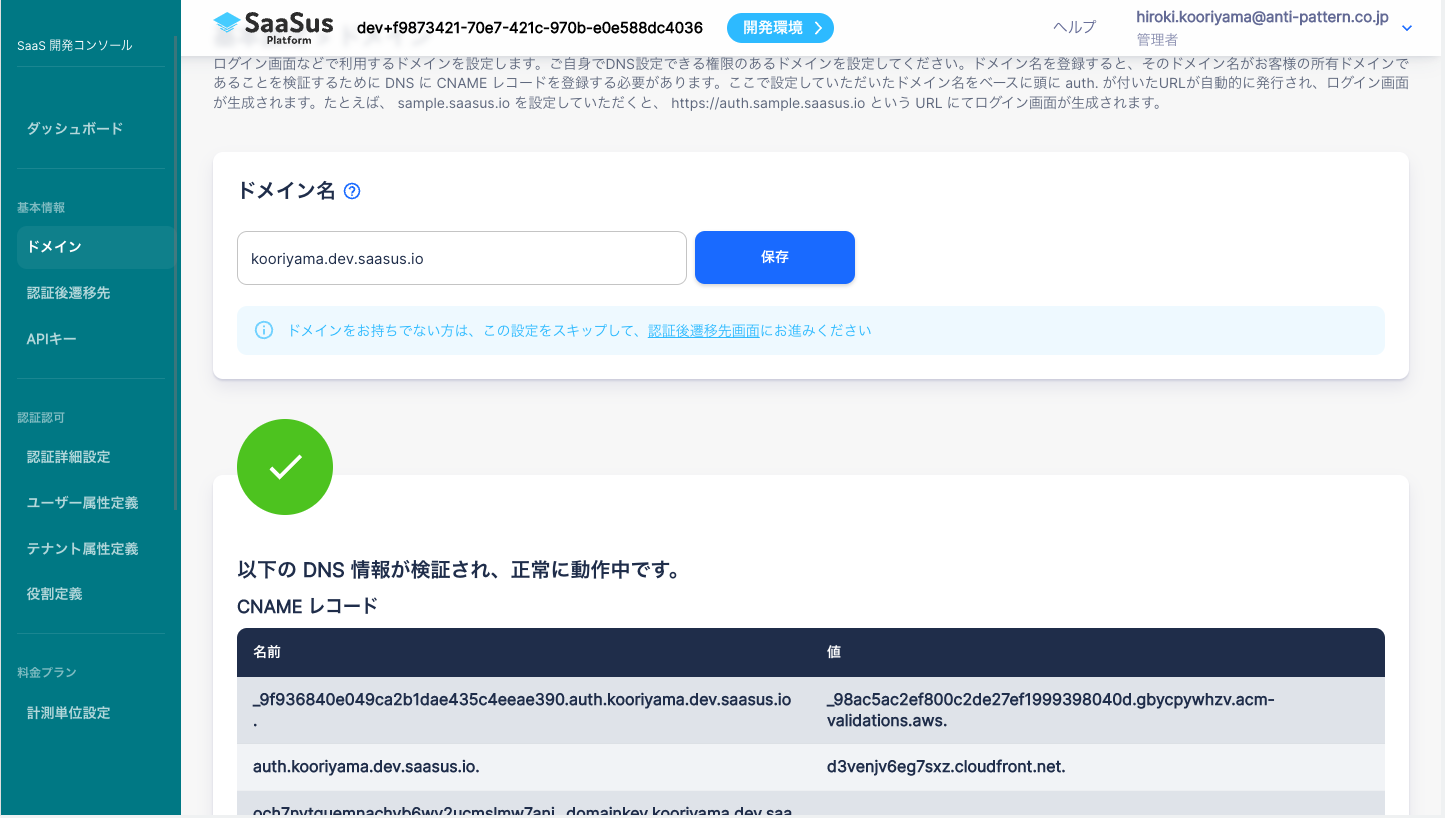
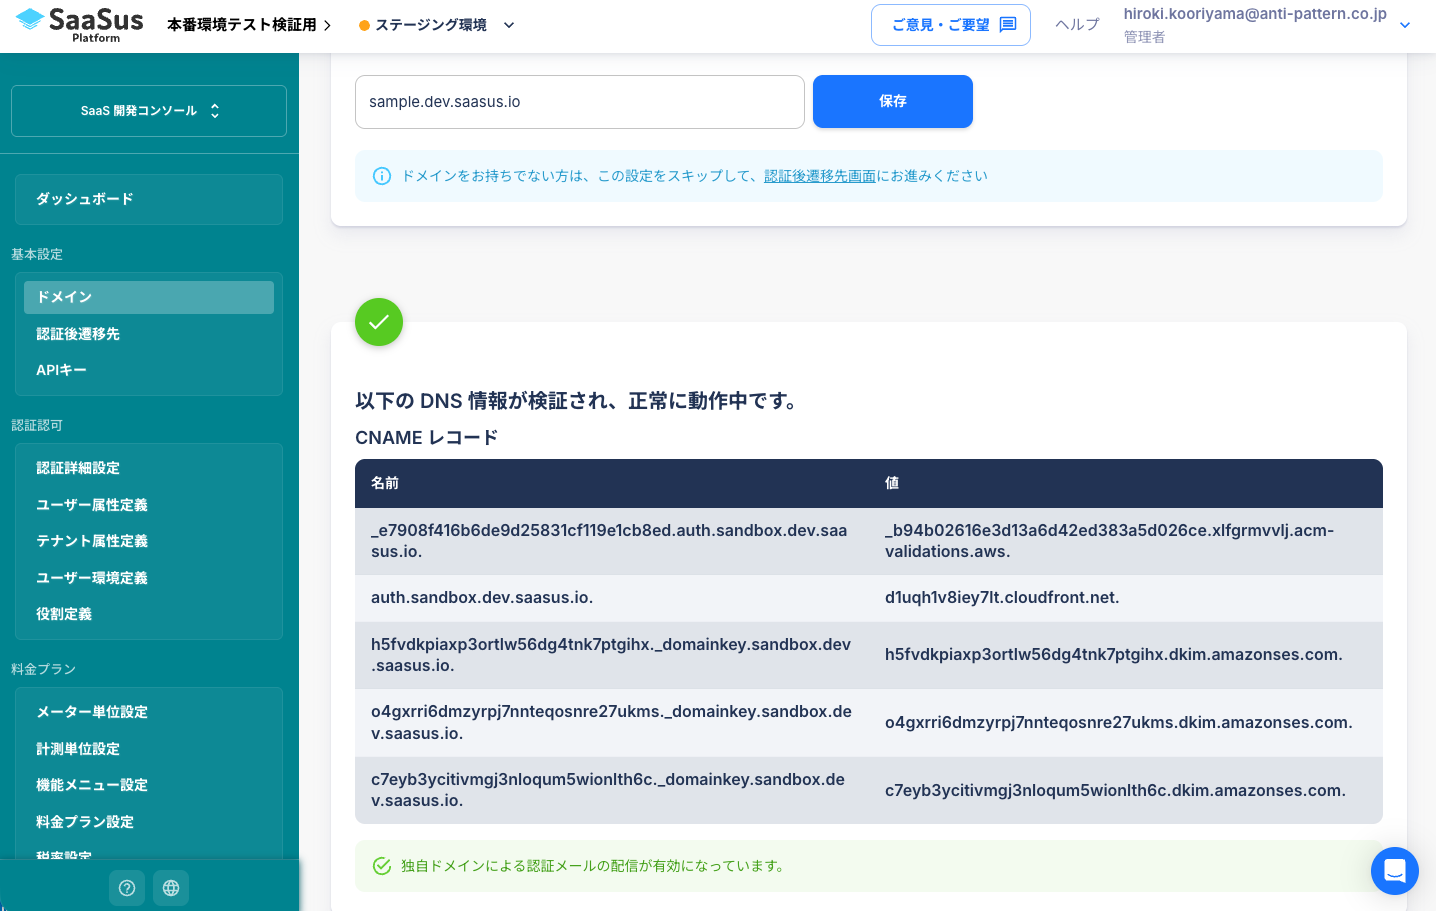
ドメイン・メール送信ドメイン認証・遷移先の設定に関するドキュメントを更新

diff --git a/docs/part-4/application-settings/domain-and-redirect-settings.md b/docs/part-4/application-settings/domain-and-redirect-settings.md
@@ -1,51 +1,71 @@
 ---
-title: "Domain and Redirect Settings"
+title: "Domain & Email Sending Domain Authentication and Redirect Settings"
 slug: "domain-and-redirect-settings"
 excerpt: ""
 hidden: false
 createdAt: "Mon Apr 15 2025 08:20:00 GMT+0000 (Coordinated Universal Time)"
-updatedAt: "Mon Apr 15 2025 08:20:00 GMT+0000 (Coordinated Universal Time)"
+updatedAt: "Wed Mar 05 2026 08:04:59 GMT+0000 (Coordinated Universal Time)"
 ---
-This page explains how to configure your **custom domain** used for the login screen and the **post-login redirect URL**. Both can be set from the **Basic Settings** screen.
 
-### 1. Domain Settings
+This page explains how to configure your **custom domain** for the login screen and the **post-login redirect URL**. Both settings can be edited from the "Basic Settings" screen.
 
-Configure the domain used by your SaaS application. This is an important setting used not only for the login screen but also as the sender domain for various notification emails.
+## 1. Domain & Email Sending Domain Authentication Settings
 
-#### Setup Steps
+Configure the domain used by your SaaS application. This is an important setting that is also used as the sender domain for the login screen and various notification emails.  
+Email sending domain authentication settings improve the delivery rate of notification emails and help prevent spoofing.
 
-1. Log in to the SaaS Development Console.  
-2. From the side menu, select **Domain**.  
+### Setup Steps
+
+1. Log in to the SaaS Development Console.
+2. From the side menu, select "Domain".
 3. Enter the domain name you want to use and complete the registration.
 
-*Note: Please use a domain for which you can configure DNS settings.*
+※ Please use a domain for which DNS configuration is possible.
 
 ![Domain Input Screen](/img/part-4/application-settings/domain-and-redirect-settings/domain-name-preference-01.png)
 
-#### DNS Configuration
+### DNS Configuration
 
-After registering your domain name, a CNAME record will appear at the bottom of the screen after a few seconds.
+After registering your domain, the following configuration information will be displayed at the bottom of the screen. Please add the specified records using your DNS service.
 
-This CNAME record is for DNS validation to confirm the domain name you own.
+#### Domain Ownership Verification (CNAME)
 
-Please register this CNAME record value in your DNS. (GoDaddy, Namecheap, Domain.com, Name.com, AWS Route53, Azure DNS, Cloud DNS, .etc)
+Register the displayed CNAME record in your DNS. This verifies ownership of your custom domain and provides a secure authentication screen.
+
+#### Email Sending Domain Authentication (DKIM)
+
+:::warning Note
+Email sending domain authentication configuration is required when using Google authentication or invitation features.  
+If you only want to set the login screen URL to a custom domain, email sending domain authentication configuration is not necessary.
+:::
+
+Please register all email sending CNAME records (there may be multiple) displayed on the screen to your DNS.  
 
 ![CNAME Display](/img/part-4/application-settings/domain-and-redirect-settings/domain-name-preference-02.png)
 
-After registering with your own DNS, the verification will be completed in a few minutes and the message "The following DNS information has been verified and is working properly." will be displayed.
+#### DNS Service Example
+For Value Domain, configure as follows:
 
-This completes the preparations for configuring the SaaS Platform.
+![DNS Configuration Example](/img/part-4/application-settings/domain-and-redirect-settings/domain-name-preference-03.png)
 
-![03](/img/part-4/application-settings/domain-and-redirect-settings/domain-name-preference-03.png)
+#### Status Verification
 
-The registered domain will be used as the login screen URL in the format `auth.domain-name`.
+When DNS configuration is performed correctly, "Operating normally" will be displayed on the screen.
 
+When email sending domain authentication (DKIM) is completed successfully, "Custom domain authentication email delivery is enabled" will be displayed on the screen.  
+However, email sending domain authentication (DKIM) configuration may take 1-2 days for DNS propagation. If it is not reflected immediately after configuration, please wait some time and check again.
 
-### 2. Post-Login Redirect URL Settings
+![DNS Verification Complete Screen](/img/part-4/application-settings/domain-and-redirect-settings/domain-name-preference-04.png)
 
-Set the URL where users should be redirected after a successful login—typically the homepage of your SaaS application.
+#### Login Screen URL
+The registered domain will be used as the login screen URL in the format `auth.domain-name`.  
+This can be confirmed in the SaaS Development Console under "Authentication & Authorization" → "Authentication Details Settings" screen.
 
-![Redirect URL Settings](/img/part-4/application-settings/domain-and-redirect-settings/authentication-preference-redirect-url.png)
+## 2. Post-Authentication Redirect URL Settings
 
-Authentication information (such as tokens) will be passed to this URL.  
-You can use the SaaSus SDK to implement a callback handler at this destination to receive and process the authentication result.
+Specify the URL (such as your company's SaaS application homepage) where users should be redirected after login completion.
+
+![Redirect URL Settings Screen](/img/part-4/application-settings/domain-and-redirect-settings/authentication-preference-redirect-url.png)
+
+Authentication information (tokens, etc.) will be passed to this URL.  
+You can use the SaaSus SDK to implement callback processing to receive authentication at this URL.

diff --git a/versioned_docs/version-1.12/part-4/application-settings/domain-and-redirect-settings.md b/versioned_docs/version-1.12/part-4/application-settings/domain-and-redirect-settings.md
@@ -1,51 +1,71 @@
 ---
-title: "Domain and Redirect Settings"
+title: "Domain & Email Sending Domain Authentication and Redirect Settings"
 slug: "domain-and-redirect-settings"
 excerpt: ""
 hidden: false
 createdAt: "Mon Apr 15 2025 08:20:00 GMT+0000 (Coordinated Universal Time)"
-updatedAt: "Mon Apr 15 2025 08:20:00 GMT+0000 (Coordinated Universal Time)"
+updatedAt: "Wed Mar 05 2026 08:09:59 GMT+0000 (Coordinated Universal Time)"
 ---
-This page explains how to configure your **custom domain** used for the login screen and the **post-login redirect URL**. Both can be set from the **Basic Settings** screen.
 
-### 1. Domain Settings
+This page explains how to configure your **custom domain** for the login screen and the **post-login redirect URL**. Both settings can be edited from the "Basic Settings" screen.
 
-Configure the domain used by your SaaS application. This is an important setting used not only for the login screen but also as the sender domain for various notification emails.
+## 1. Domain & Email Sending Domain Authentication Settings
 
-#### Setup Steps
+Configure the domain used by your SaaS application. This is an important setting that is also used as the sender domain for the login screen and various notification emails.  
+Email sending domain authentication settings improve the delivery rate of notification emails and help prevent spoofing.
 
-1. Log in to the SaaS Development Console.  
-2. From the side menu, select **Domain**.  
+### Setup Steps
+
+1. Log in to the SaaS Development Console.
+2. From the side menu, select "Domain".
 3. Enter the domain name you want to use and complete the registration.
 
-*Note: Please use a domain for which you can configure DNS settings.*
+※ Please use a domain for which DNS configuration is possible.
 
 ![Domain Input Screen](/img/part-4/application-settings/domain-and-redirect-settings/domain-name-preference-01.png)
 
-#### DNS Configuration
+### DNS Configuration
 
-After registering your domain name, a CNAME record will appear at the bottom of the screen after a few seconds.
+After registering your domain, the following configuration information will be displayed at the bottom of the screen. Please add the specified records using your DNS service.
 
-This CNAME record is for DNS validation to confirm the domain name you own.
+#### Domain Ownership Verification (CNAME)
 
-Please register this CNAME record value in your DNS. (GoDaddy, Namecheap, Domain.com, Name.com, AWS Route53, Azure DNS, Cloud DNS, .etc)
+Register the displayed CNAME record in your DNS. This verifies ownership of your custom domain and provides a secure authentication screen.
+
+#### Email Sending Domain Authentication (DKIM)
+
+:::warning Note
+Email sending domain authentication configuration is required when using Google authentication or invitation features.  
+If you only want to set the login screen URL to a custom domain, email sending domain authentication configuration is not necessary.
+:::
+
+Please register all email sending CNAME records (there may be multiple) displayed on the screen to your DNS.  
 
 ![CNAME Display](/img/part-4/application-settings/domain-and-redirect-settings/domain-name-preference-02.png)
 
-After registering with your own DNS, the verification will be completed in a few minutes and the message "The following DNS information has been verified and is working properly." will be displayed.
+#### DNS Service Example
+For Value Domain, configure as follows:
 
-This completes the preparations for configuring the SaaS Platform.
+![DNS Configuration Example](/img/part-4/application-settings/domain-and-redirect-settings/domain-name-preference-03.png)
 
-![03](/img/part-4/application-settings/domain-and-redirect-settings/domain-name-preference-03.png)
+#### Status Verification
 
-The registered domain will be used as the login screen URL in the format `auth.domain-name`.
+When DNS configuration is performed correctly, "Operating normally" will be displayed on the screen.
 
+When email sending domain authentication (DKIM) is completed successfully, "Custom domain authentication email delivery is enabled" will be displayed on the screen.  
+However, email sending domain authentication (DKIM) configuration may take 1-2 days for DNS propagation. If it is not reflected immediately after configuration, please wait some time and check again.
 
-### 2. Post-Login Redirect URL Settings
+![DNS Verification Complete Screen](/img/part-4/application-settings/domain-and-redirect-settings/domain-name-preference-04.png)
 
-Set the URL where users should be redirected after a successful login—typically the homepage of your SaaS application.
+#### Login Screen URL
+The registered domain will be used as the login screen URL in the format `auth.domain-name`.  
+This can be confirmed in the SaaS Development Console under "Authentication & Authorization" → "Authentication Details Settings" screen.
 
-![Redirect URL Settings](/img/part-4/application-settings/domain-and-redirect-settings/authentication-preference-redirect-url.png)
+## 2. Post-Authentication Redirect URL Settings
 
-Authentication information (such as tokens) will be passed to this URL.  
-You can use the SaaSus SDK to implement a callback handler at this destination to receive and process the authentication result.
+Specify the URL (such as your company's SaaS application homepage) where users should be redirected after login completion.
+
+![Redirect URL Settings Screen](/img/part-4/application-settings/domain-and-redirect-settings/authentication-preference-redirect-url.png)
+
+Authentication information (tokens, etc.) will be passed to this URL.  
+You can use the SaaSus SDK to implement callback processing to receive authentication at this URL.
